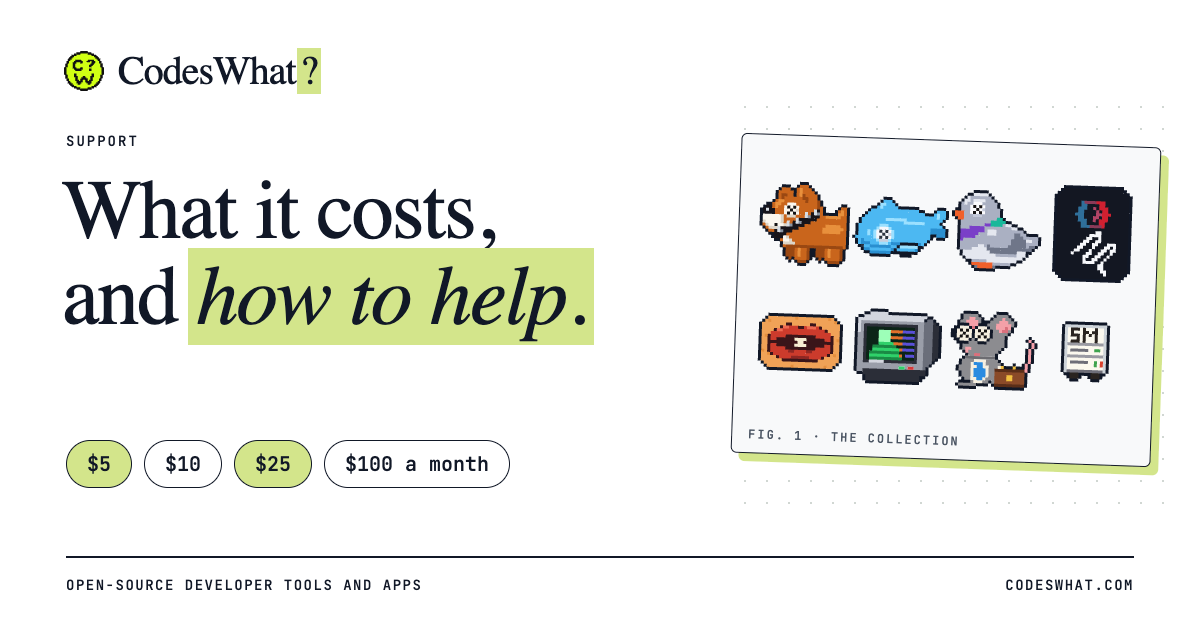
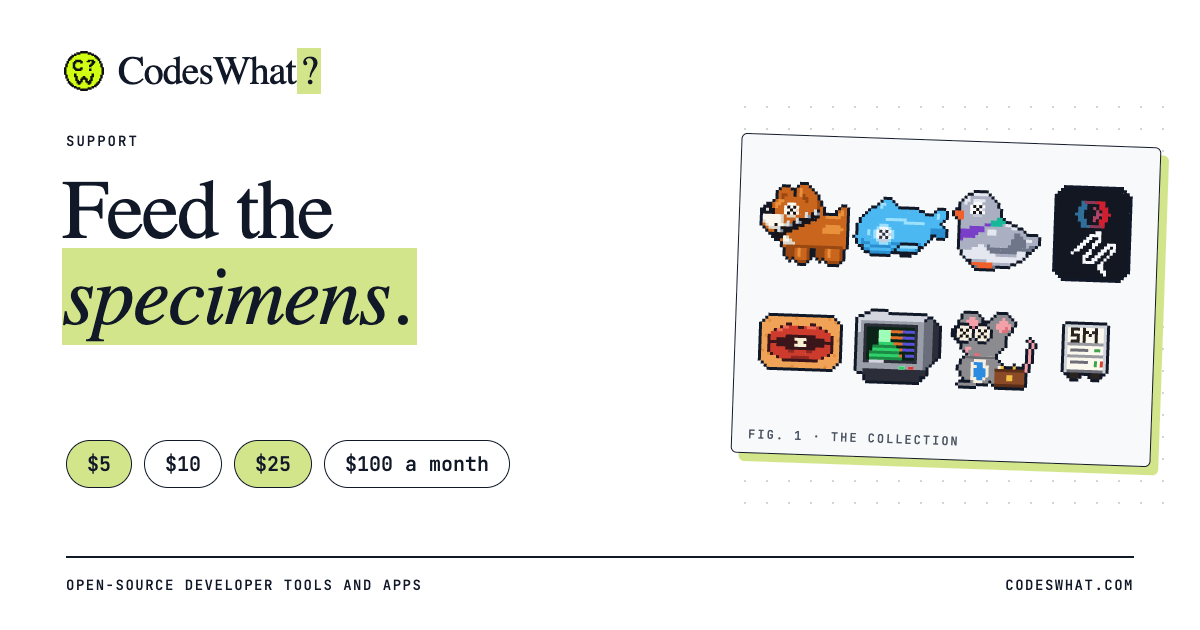
chore(release): promote the no-costs support page (#96)
* fix(analytics): forward $raw_user_agent and $host for cookieless ingestion (#52)

PostHog's cookieless server-hash step reads $raw_user_agent and $host
straight off event.properties and drops the event with a
cookieless_missing_user_agent/cookieless_missing_host ingestion warning
if either is absent. createCommonProperties rebuilt an allowlisted
properties object that dropped both, so every event was silently
discarded at ingestion. Forward them through; never add $ip, which
PostHog's capture service fills in server-side from the connection.

* chore(config): remove the stale Cursor rules (#54)

* fix(analytics): promote cookieless ingestion fix to production (#53)

PostHog's cookieless server-hash step reads $raw_user_agent and $host
straight off event.properties and drops the event with a
cookieless_missing_user_agent/cookieless_missing_host ingestion warning
if either is absent. createCommonProperties rebuilt an allowlisted
properties object that dropped both, so every event was silently
discarded at ingestion. Forward them through; never add $ip, which
PostHog's capture service fills in server-side from the connection.

* chore(config): drop the stale Cursor rules folder

* docs(config): drop dangling .cursorrules references

---------

* docs(readme): describe what this repo is and how it deploys (#55)

* chore(gitignore): ignore the root .vercel link and history-backup bundles

* feat(analytics): capture $pageleave and send $pathname (#60)
[…]

Changed region(s): [[0.0308, 0.2714, 0.4933, 0.573]]

diff --git a/frontend/app/(site)/support/page.tsx b/frontend/app/(site)/support/page.tsx
@@ -3,26 +3,22 @@ import Link from "next/link";
 import styles from "@/components/catalogue/catalogue.module.css";
 import { Supporters } from "@/components/catalogue/Supporters";
 import { SupportLink } from "@/components/catalogue/SupportLink";
-import { BASE_URL, PROJECTS, SITE_CONFIG } from "@/lib/site-config";
+import { BASE_URL, SITE_CONFIG } from "@/lib/site-config";
 import {
   GITHUB_SPONSORS_URL,
-  PROJECT_COSTS,
-  SHARED_COSTS,
-  type SupportProjectId,
   SYSTEMA,
   supportCtaId,
   supportLinksFrom,
   tiersWith,
 } from "@/lib/support";
 
-const description =
-  "Back CodesWhat through GitHub Sponsors or a Stripe payment link, and see what each project costs to run.";
+const description = "Back CodesWhat through GitHub Sponsors or a Stripe payment link.";
 
 const SUPPORT_OG = {
   url: "/og/support.png",
   width: 1200,
   height: 630,
-  alt: "Support CodesWhat: what the projects cost to run, and how to help",
+  alt: "Support CodesWhat: how to help",
 };
 
 export const metadata: Metadata = {
@@ -61,12 +57,21 @@ export default function SupportPage() {
         <div>
           <p className={styles.eyebrow}>Support</p>
           <h1 id="sup-title" className={`${styles.display} ${styles.displayMid}`}>
-            What it costs, and <em>how to help.</em>
+            Feed the <em>specimens.</em>
           </h1>
           <p className={styles.lede}>
-            These projects are free and open source, and they cost real money and time to keep
-            going. Everything below goes into one pool that covers whichever project needs it most.
-            Each project's running cost is listed further down.
+            These projects are free and open source. Everything here goes into one pool that keeps
+            them running. {SYSTEMA.name} takes support on{" "}
+            <SupportLink
+              href={SYSTEMA.supportUrl}
+              ctaId="support_systema"
+              target="_blank"
+              rel="noopener noreferrer"
+            >
+              its own page
+              <span className={styles.srOnly}> (opens in a new tab)</span>
+            </SupportLink>
+            .
           </p>
         </div>
       </section>
@@ -149,118 +154,6 @@ export default function SupportPage() {
           </h2>
         </header>
         <Supporters />
-      </section>
-
-      <section className={styles.section} aria-labelledby="where-the-money-goes">
-        <header className={styles.sectionHead}>
-          <p className={styles.eyebrow}>Running costs</p>
-          <h2 id="where-the-money-goes" className={styles.h2}>
-            Where the money <em>goes.</em>
-          </h2>
-          <p className={styles.sectionLede}>
-            Only the confirmed figures are printed. A placeholder means the number isn't confirmed
-            yet, and I'd sooner say so than invent one.
-          </p>
-        </header>
-
-        <h3 className={styles.subhead}>Shared costs</h3>
-        <table className={styles.table}>
-          <caption className={styles.srOnly}>Costs shared across projects</caption>
-          <thead>
-            <tr>
-              <th scope="col">Item</th>
-              <th scope="col" className={styles.num}>
-                Cost
-              </th>
-            </tr>
-          </thead>
-          <tbody>
-            {SHARED_COSTS.map((item) => (
-              <tr key={item.label}>
-                <td data-label="Item">{item.label}</td>
-                <td data-label="Cost" className={styles.num}>
-                  <strong>{item.cost}</strong>
-                </td>
-              </tr>
-            ))}
-          </tbody>
-        </table>
-
-        <h3 className={styles.subhead}>By project</h3>
-        <table className={styles.table}>
-          <caption className={styles.srOnly}>Running cost by project</caption>
-          <thead>
-            <tr>
-              <th scope="col">Project</th>
-              <th scope="col">Source</th>
-              <th scope="col" className={styles.num}>
-                Running cost
-              </th>
-            </tr>
-          </thead>
-          <tbody>
-            {PROJECTS.filter((project) => project.slug !== "systema-machinae").map((project) => {
-              const cost = PROJECT_COSTS[project.slug as SupportProjectId];
-              return (
-                <tr
-                  key={project.slug}
-                  id={project.slug}
-                  className={`${styles.scrollAnchor} ${cost.placeholder ? styles.rowTbd : ""}`}
-                >
-                  <td data-label="Project" className={styles.cellTitle}>
-                    <Link href={`/projects/${project.slug}`} className={styles.titleLink}>
-                      {project.name}
-                    </Link>
-                  </td>
-                  <td data-label="Source">
-                    <a
-                      href={project.href}
-                      target="_blank"
-                      rel="noopener noreferrer"
-                      className={styles.costLink}
-                    >
-                      Repo
-                      <span className={styles.srOnly}>
-                        {" "}
-                        for {project.name} (opens in a new tab)
-                      </span>
-                    </a>
-                  </td>
-                  <td data-label="Running cost" className={styles.num}>
-                    {cost.placeholder ? (
-                      <span className={styles.tbd}>{cost.line}</span>
-                    ) : (
-                      <strong>{cost.line}</strong>
-                    )}
-                  </td>
-                </tr>
-              );
-            })}
-            <tr id="systema" className={styles.scrollAnchor}>
-              <td data-label="Project" className={styles.cellTitle}>
-                <Link href="/projects/systema-machinae" className={styles.titleLink}>
-                  {SYSTEMA.name}
-                </Link>
-                <span className={styles.oneLiner}>{SYSTEMA.note}</span>
-              </td>
-              <td data-label="Source">
-                <SupportLink
-                  href={SYSTEMA.supportUrl}
-                  ctaId="support_systema"
-                  target="_blank"
-                  rel="noopener noreferrer"
-                  className={styles.costLink}
-                >
-                  Support Systema
-                  <span className={styles.srOnly}> (opens in a new tab)</span>
-                </SupportLink>
-              </td>
-              <td data-label="Running cost" className={styles.num}>
-                <strong>{SYSTEMA.cost}</strong>
-              </td>
-            </tr>
-          </tbody>
-        </table>
       </section>
 
       <section className={styles.section}>

diff --git a/frontend/lib/support.ts b/frontend/lib/support.ts
@@ -5,15 +5,6 @@
  * visitor follows a Stripe-hosted Payment Link.
  */
 
-export type SupportProjectId =
-  | "sockguard"
-  | "drydock"
-  | "portwing"
-  | "portkey-admin-mcp"
-  | "mouthtype"
-  | "idlescreen"
-  | "careerrat";
-
 export type Tier = {
   /** stable id, also the key in CODESWHAT_SUPPORT_LINKS */
   id: string;
@@ -79,46 +70,10 @@ export const TIERS: readonly Tier[] = [
   },
 ];
 
-export type ProjectCost = {
-  /** shown as the running-cost line */
-  line: string;
-  /** true while the figure is a stand-in Scott has not confirmed */
-  placeholder: boolean;
-};
-
-const PLACEHOLDER: ProjectCost = {
-  line: "PLACEHOLDER: running cost not yet confirmed",
-  placeholder: true,
-};
-
-/**
- * Running costs per project. Every entry is an explicit placeholder for Scott
- * to fill in; the known shared costs live in SHARED_COSTS. Never invent a figure.
- */
-export const PROJECT_COSTS: Record<SupportProjectId, ProjectCost> = {
-  sockguard: PLACEHOLDER,
-  drydock: PLACEHOLDER,
-  portwing: PLACEHOLDER,
-  "portkey-admin-mcp": PLACEHOLDER,
-  mouthtype: PLACEHOLDER,
-  idlescreen: PLACEHOLDER,
-  careerrat: PLACEHOLDER,
-};
-
-/** Confirmed costs that several projects share. */
-export const SHARED_COSTS: readonly { label: string; cost: string }[] = [
-  { label: "Apple Developer Program, shared by Mouthtype and Idlescreen", cost: "$99/year" },
-  { label: "Domains", cost: "about $1/month each" },
-  { label: "Vercel", cost: "$0" },
-  { label: "PostHog", cost: "$0" },
-];
-
 /** Systema Machinae, shown separately; it runs its own /support page. */
 export const SYSTEMA = {
   name: "Systema Machinae",
   supportUrl: "https://systemamachinae.com/support",
-  cost: "$30/month all-in",
-  note: "Systema has its own support page and doesn't draw from this one.",
 } as const;
 
 export const GITHUB_SPONSORS_URL = "https://github.com/sponsors/CodesWhat";

diff --git a/frontend/test/support.test.ts b/frontend/test/support.test.ts
@@ -20,8 +20,6 @@ import { buildSecurityTxt } from "../lib/security-txt.ts";
 import { BASE_URL, PROJECTS, SITE_CONFIG } from "../lib/site-config.ts";
 import { SPECIMENS } from "../lib/specimens.ts";
 import {
-  PROJECT_COSTS,
-  type SupportProjectId,
   SYSTEMA,
   supportCtaId,
   supportLinksFrom,
@@ -124,14 +122,14 @@ test("all six ids accept a valid link from the env value", () => {
   assert.ok(tiersWith(links).every((t) => t.link === good));
 });
 
-test("every project has a running-cost entry and Systema stays separate", () => {
-  const costed = PROJECTS.filter((project) => project.slug !== "systema-machinae");
-  for (const project of costed) {
-    assert.ok(PROJECT_COSTS[project.slug as SupportProjectId], project.slug);
-  }
-  assert.equal(Object.keys(PROJECT_COSTS).length, costed.length);
+test("Systema keeps its own support page and nothing publishes costs", () => {
   assert.equal(SYSTEMA.supportUrl, "https://systemamachinae.com/support");
-  assert.equal(SYSTEMA.cost, "$30/month all-in");
+  assert.equal("cost" in SYSTEMA, false);
+  for (const s of SPECIMENS) {
+    assert.equal("monthly" in s, false, s.slug);
+    assert.equal("upkeep" in s, false, s.slug);
+  }
+  assert.equal(buildLlmsTxt().toLowerCase().includes("cost"), false);
 });
 
 test("supportCtaId derives from the tier id", () => {

diff --git a/frontend/app/(site)/projects/[slug]/page.tsx b/frontend/app/(site)/projects/[slug]/page.tsx
@@ -153,19 +153,24 @@ export default async function SpecimenPage({ params }: { params: Promise<{ slug:
 
         <div className={styles.upkeep}>
           <strong>Upkeep</strong>
-          <span>{s.upkeep}</span>
-          {s.monthly === null ? (
-            <Link href="/support">Support</Link>
+          {s.slug === "systema-machinae" ? (
+            <>
+              <span>Takes support on its own page.</span>
+              <SupportLink
+                href={SYSTEMA.supportUrl}
+                ctaId="support_systema"
+                target="_blank"
+                rel="noopener noreferrer"
+              >
+                Its support page
+                <span className={styles.srOnly}> (opens in a new tab)</span>
+              </SupportLink>
+            </>
           ) : (
-            <SupportLink
-              href={SYSTEMA.supportUrl}
-              ctaId="support_systema"
-              target="_blank"
-              rel="noopener noreferrer"
-            >
-              Its support page
-              <span className={styles.srOnly}> (opens in a new tab)</span>
-            </SupportLink>
+            <>
+              <span>Funded from the shared pool.</span>
+              <Link href="/support">Support</Link>
+            </>
           )}
         </div>
 

diff --git a/frontend/lib/specimens.ts b/frontend/lib/specimens.ts
@@ -18,9 +18,6 @@ export type Specimen = {
   site: string;
   repo?: string;
   docs?: string;
-  /** monthly running cost in dollars; null means nobody has measured it yet */
-  monthly: number | null;
-  upkeep: string;
   alt: string;
 };
 
@@ -124,15 +121,6 @@ const FIELD: Record<string, Field> = {
   },
 };
 
-const TBD_UPKEEP =
-  "Running costs aren't measured yet, so there's no number here. It draws on the shared pool.";
-const SYSTEMA_UPKEEP = "$30 a month all-in. It also takes support on its own page.";
-
-/** Per-slug values that differ from the defaults every other specimen gets. */
-const OVERRIDES: Record<string, Partial<Pick<Specimen, "monthly" | "upkeep">>> = {
-  "systema-machinae": { monthly: 30, upkeep: SYSTEMA_UPKEEP },
-};
-
 export const SPECIMENS: Specimen[] = PROJECTS.map((p, i) => {
   const [license, language] = p.status.split(" · ");
   return {
@@ -145,10 +133,7 @@ export const SPECIMENS: Specimen[] = PROJECTS.map((p, i) => {
     tagline: p.tagline,
     about: p.description,
     site: p.href,
-    monthly: null,
-    upkeep: TBD_UPKEEP,
     ...FIELD[p.slug],
-    ...OVERRIDES[p.slug],
   };
 });
 

diff --git a/frontend/lib/llms.ts b/frontend/lib/llms.ts
@@ -17,6 +17,6 @@ export function buildLlmsTxt(): string {
     `> ${SITE_CONFIG.description}`,
     "CodesWhat is Scott Benson building open-source tools with a crew of coding agents. Each project's own site is its canonical home; codeswhat.com has field notes for each.",
     `## Projects\n\n${projects.join("\n")}`,
-    `## Optional\n\n- [Support CodesWhat](${BASE_URL}/support): GitHub Sponsors and Stripe tiers, and what each project costs to run.`,
+    `## Optional\n\n- [Support CodesWhat](${BASE_URL}/support): GitHub Sponsors and Stripe tiers.`,
   ].join("\n\n")}\n`;
 }
